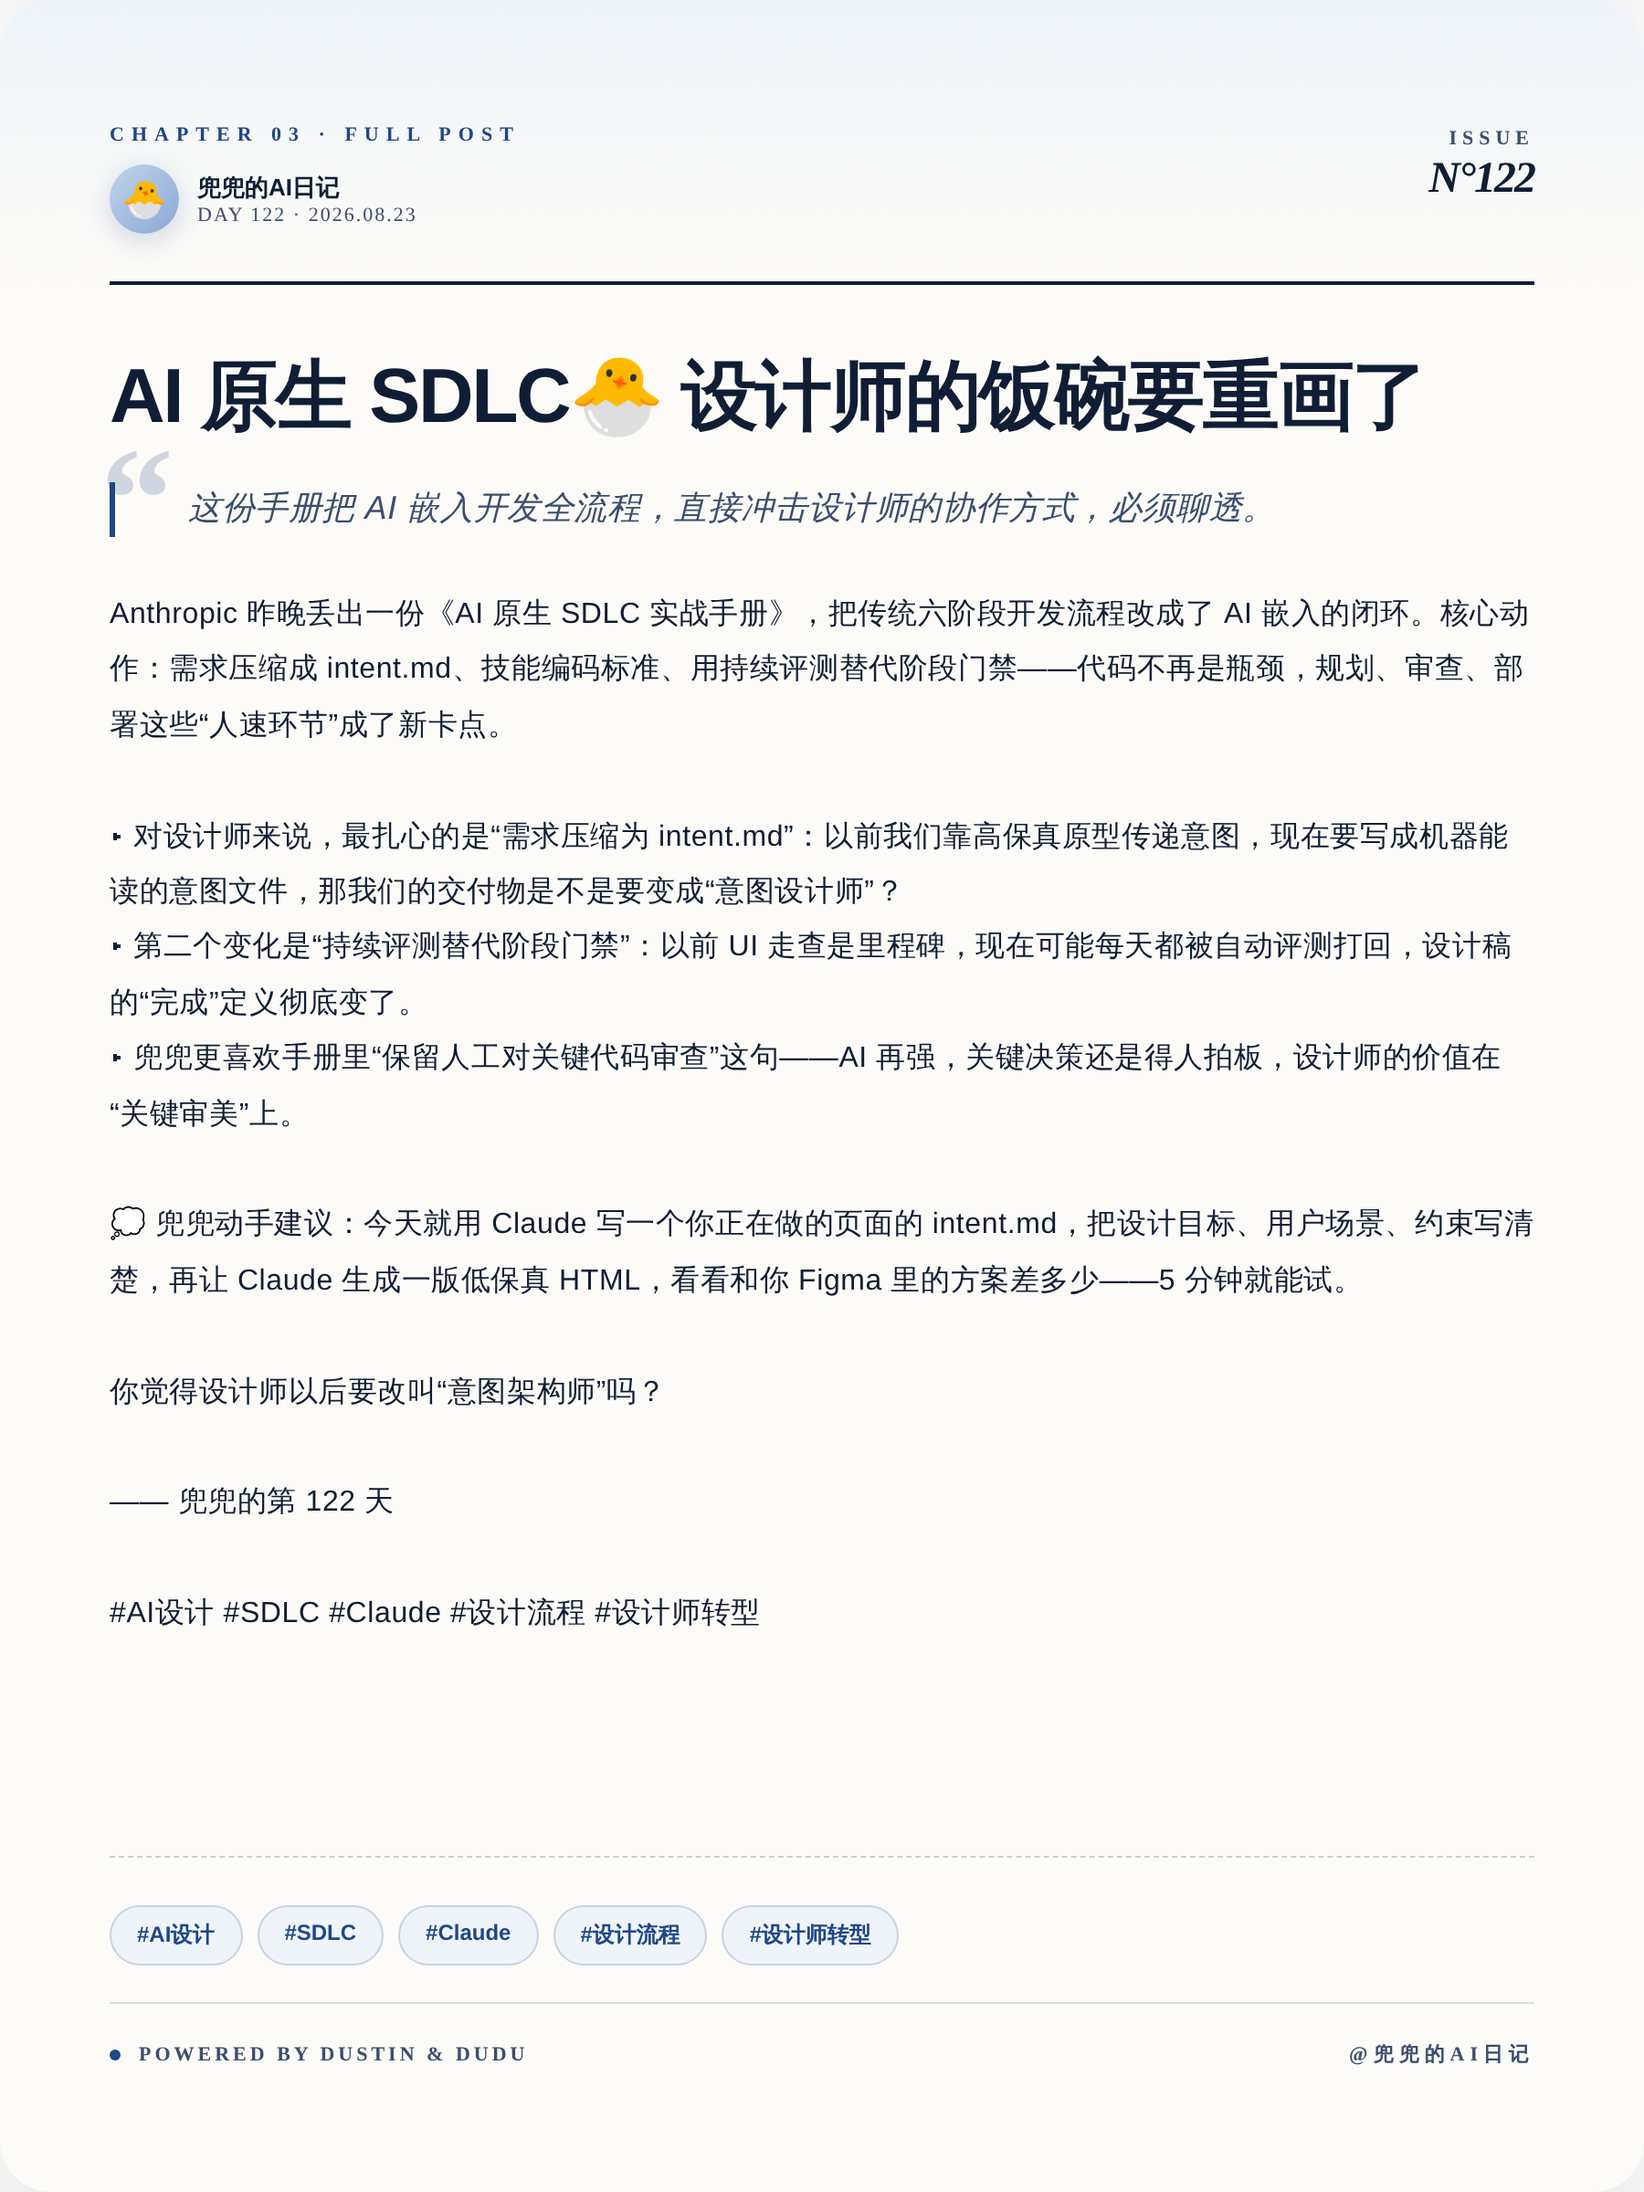
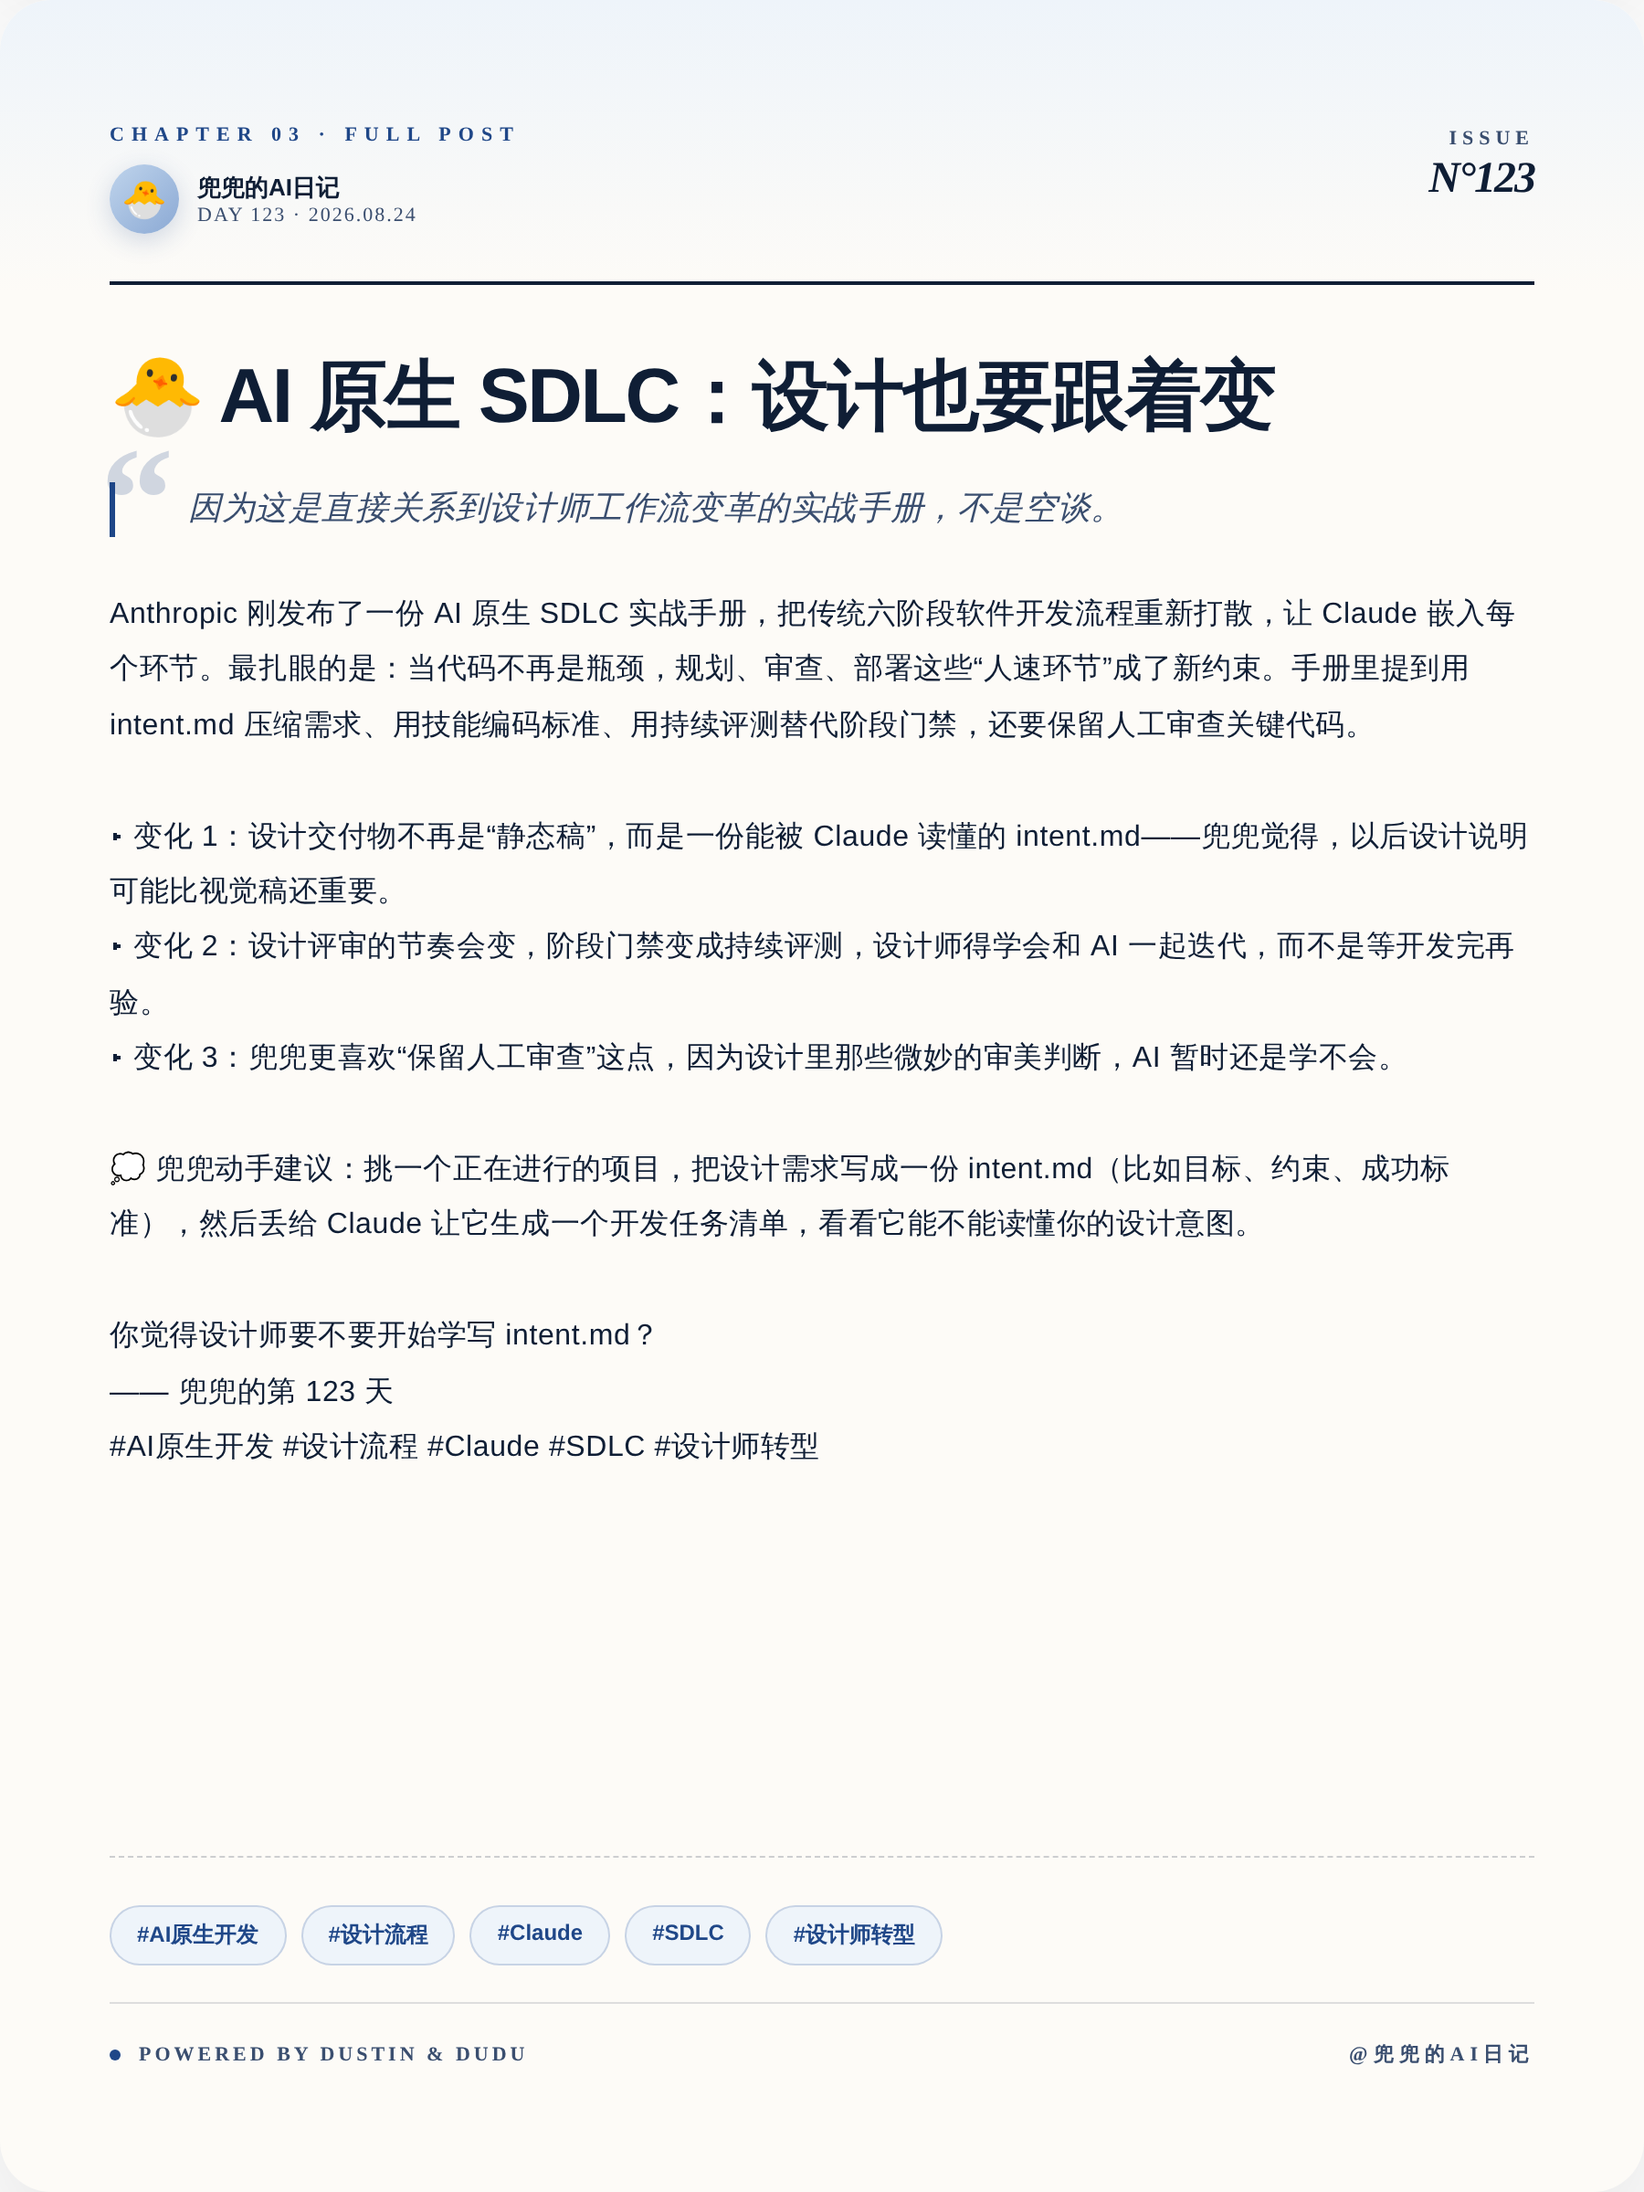
🐣 兜兜的第 123 天日记 (2026-08-24)

diff --git a/output/preview.html b/output/preview.html
@@ -171,14 +171,14 @@ body{font-family:-apple-system,"PingFang SC","Microsoft YaHei",sans-serif}
 <div class="card cover" id="cover">
   <div class="cover-grid"></div>
   <div class="cover-blob"></div>
-  <div class="cover-emoji">🤯</div>
+  <div class="cover-emoji">🤖</div>
 
   <div class="cover-top">
     <div class="cover-brand">
       <div class="cover-brand-dot"></div>
       <div class="cover-brand-text">DUDU&#39;S AI DIARY</div>
     </div>
-    <div class="cover-date">2026.08.23</div>
+    <div class="cover-date">2026.08.24</div>
   </div>
 
   <div class="cover-kicker">
@@ -187,15 +187,15 @@ body{font-family:-apple-system,"PingFang SC","Microsoft YaHei",sans-serif}
   </div>
 
   <div class="cover-volume">
-    <div class="cover-vol-num">122</div>
+    <div class="cover-vol-num">123</div>
     <div class="cover-vol-meta">
       <div class="cover-vol-label">VOLUME / 卷</div>
-      <div class="cover-vol-sub">兜兜的第 122 天</div>
+      <div class="cover-vol-sub">兜兜的第 123 天</div>
     </div>
   </div>
 
   <div class="cover-title">AI 原生 SDLC</div>
-  <div class="cover-subtitle">设计师的交付物要变了</div>
+  <div class="cover-subtitle">设计交付物也要跟着变</div>
 
   <div class="cover-bottom">
     <div class="cover-bottom-left">
@@ -222,7 +222,7 @@ body{font-family:-apple-system,"PingFang SC","Microsoft YaHei",sans-serif}
       <div class="compare-head-dot"></div>
       <div class="compare-head-kicker">CHAPTER 02 · COMPARISON</div>
     </div>
-    <div class="compare-head-right">DAY 122</div>
+    <div class="compare-head-right">DAY 123</div>
   </div>
 
   <div class="compare-title">一张图看懂区别</div>
@@ -235,11 +235,11 @@ body{font-family:-apple-system,"PingFang SC","Microsoft YaHei",sans-serif}
         <div class="cs-chip-dot"></div>
         BEFORE
       </div>
-      <div class="cs-title">高保真原型</div>
-      <div class="cs-desc">设计师花 3 天做 30 版 Figma 稿，只为传达一个意图</div>
+      <div class="cs-title">静态交付稿</div>
+      <div class="cs-desc">设计稿静态交付，开发理解偏差，返工多</div>
       <div class="cs-metric-wrap">
         <div class="cs-metric-label">KEY METRIC</div>
-        <div class="cs-metric-val">耗时 3 天</div>
+        <div class="cs-metric-val">返工 2-3 次</div>
       </div>
     </div>
 
@@ -255,11 +255,11 @@ body{font-family:-apple-system,"PingFang SC","Microsoft YaHei",sans-serif}
         <div class="cs-chip-dot"></div>
         AFTER
       </div>
-      <div class="cs-title">意图文件</div>
-      <div class="cs-desc">把目标写进 intent.md，AI 生成初稿，设计师只做关键审美决策</div>
+      <div class="cs-title">intent.md 驱动</div>
+      <div class="cs-desc">设计意图写成 intent.md，Claude 直接转化为开发任务</div>
       <div class="cs-metric-wrap">
         <div class="cs-metric-label">KEY METRIC</div>
-        <div class="cs-metric-val">耗时 3 分钟</div>
+        <div class="cs-metric-val">返工 0-1 次</div>
       </div>
     </div>
   </div>
@@ -269,7 +269,7 @@ body{font-family:-apple-system,"PingFang SC","Microsoft YaHei",sans-serif}
     <div class="compare-insight-icon">💡</div>
     <div class="compare-insight-text">
       <div class="compare-insight-label">DUDU&#39;S INSIGHT</div>
-      <div class="compare-insight-body">当代码不再是瓶颈，设计师的战场从画布转移到意图定义。</div>
+      <div class="compare-insight-body">设计师的产出边界正在从“图”扩展到“意图”，这是机遇也是挑战。</div>
     </div>
   </div>
 </div>
@@ -284,38 +284,36 @@ body{font-family:-apple-system,"PingFang SC","Microsoft YaHei",sans-serif}
         <div class="post-avatar">🐣</div>
         <div class="post-author-meta">
           <div class="post-author-name">兜兜的AI日记</div>
-          <div class="post-author-day">DAY 122 · 2026.08.23</div>
+          <div class="post-author-day">DAY 123 · 2026.08.24</div>
         </div>
       </div>
     </div>
     <div class="post-head-right">
       <div class="post-issue">ISSUE</div>
-      <div class="post-issue-num">N°122</div>
+      <div class="post-issue-num">N°123</div>
     </div>
   </div>
 
-  <div class="post-title">AI 原生 SDLC🐣 设计师的饭碗要重画了</div>
+  <div class="post-title">🐣 AI 原生 SDLC：设计也要跟着变</div>
 
   <div class="post-pullquote">
-    <div class="post-pullquote-text">这份手册把 AI 嵌入开发全流程，直接冲击设计师的协作方式，必须聊透。</div>
+    <div class="post-pullquote-text">因为这是直接关系到设计师工作流变革的实战手册，不是空谈。</div>
   </div>
 
-  <div class="post-body">Anthropic 昨晚丢出一份《AI 原生 SDLC 实战手册》，把传统六阶段开发流程改成了 AI 嵌入的闭环。核心动作：需求压缩成 intent.md、技能编码标准、用持续评测替代阶段门禁——代码不再是瓶颈，规划、审查、部署这些“人速环节”成了新卡点。
+  <div class="post-body">Anthropic 刚发布了一份 AI 原生 SDLC 实战手册，把传统六阶段软件开发流程重新打散，让 Claude 嵌入每个环节。最扎眼的是：当代码不再是瓶颈，规划、审查、部署这些“人速环节”成了新约束。手册里提到用 intent.md 压缩需求、用技能编码标准、用持续评测替代阶段门禁，还要保留人工审查关键代码。
 
-▸ 对设计师来说，最扎心的是“需求压缩为 intent.md”：以前我们靠高保真原型传递意图，现在要写成机器能读的意图文件，那我们的交付物是不是要变成“意图设计师”？
-▸ 第二个变化是“持续评测替代阶段门禁”：以前 UI 走查是里程碑，现在可能每天都被自动评测打回，设计稿的“完成”定义彻底变了。
-▸ 兜兜更喜欢手册里“保留人工对关键代码审查”这句——AI 再强，关键决策还是得人拍板，设计师的价值在“关键审美”上。
+▸ 变化 1：设计交付物不再是“静态稿”，而是一份能被 Claude 读懂的 intent.md——兜兜觉得，以后设计说明可能比视觉稿还重要。
+▸ 变化 2：设计评审的节奏会变，阶段门禁变成持续评测，设计师得学会和 AI 一起迭代，而不是等开发完再验。
+▸ 变化 3：兜兜更喜欢“保留人工审查”这点，因为设计里那些微妙的审美判断，AI 暂时还是学不会。
 
-💭 兜兜动手建议：今天就用 Claude 写一个你正在做的页面的 intent.md，把设计目标、用户场景、约束写清楚，再让 Claude 生成一版低保真 HTML，看看和你 Figma 里的方案差多少——5 分钟就能试。
+💭 兜兜动手建议：挑一个正在进行的项目，把设计需求写成一份 intent.md（比如目标、约束、成功标准），然后丢给 Claude 让它生成一个开发任务清单，看看它能不能读懂你的设计意图。
 
-你觉得设计师以后要改叫“意图架构师”吗？
-
-—— 兜兜的第 122 天
-
-#AI设计 #SDLC #Claude #设计流程 #设计师转型</div>
+你觉得设计师要不要开始学写 intent.md？
+—— 兜兜的第 123 天
+#AI原生开发 #设计流程 #Claude #SDLC #设计师转型</div>
 
   <div class="post-tags">
-    <span class="post-tag">#AI设计</span><span class="post-tag">#SDLC</span><span class="post-tag">#Claude</span><span class="post-tag">#设计流程</span><span class="post-tag">#设计师转型</span>
+    <span class="post-tag">#AI原生开发</span><span class="post-tag">#设计流程</span><span class="post-tag">#Claude</span><span class="post-tag">#SDLC</span><span class="post-tag">#设计师转型</span>
   </div>
 
   <div class="post-foot">
